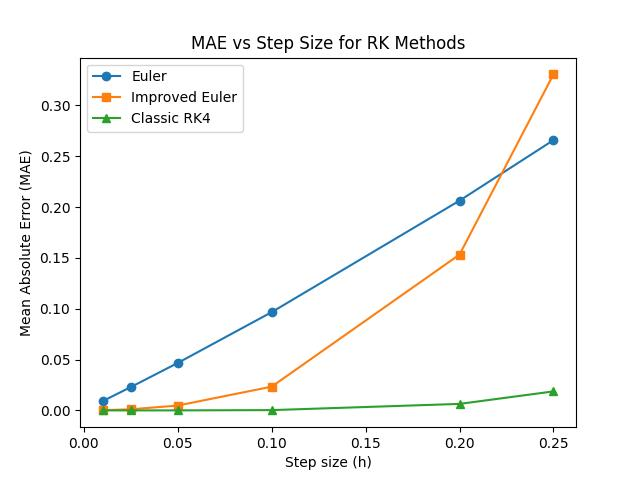
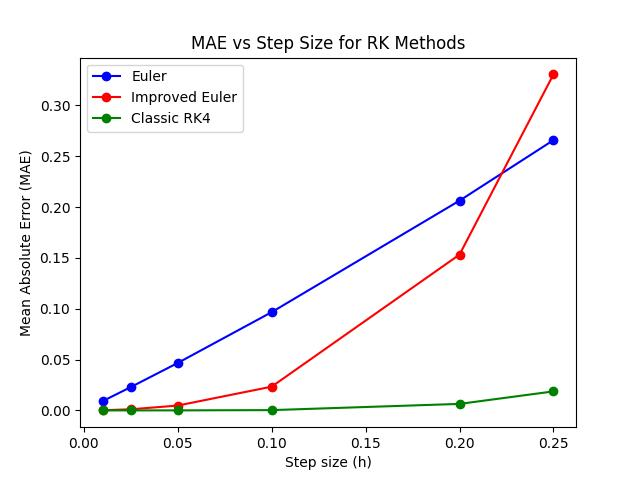
task 3.3 3.4 and 3.5 inital

diff --git a/call_ass5.py b/call_ass5.py
@@ -131,9 +131,9 @@ for i, h in enumerate(step_sizes):
 plt.figure()
 
 # Plotting each method
-plt.plot(step_sizes, mae_results["Euler"], 'o-', label="Euler")
-plt.plot(step_sizes, mae_results["Improved"], 's-', label="Improved Euler")
-plt.plot(step_sizes, mae_results["RK4"], '^-', label="Classic RK4")
+plt.plot(step_sizes, mae_results["Euler"], 'b' 'o-', label="Euler")
+plt.plot(step_sizes, mae_results["Improved"], 'r' 'o-', label="Improved Euler")
+plt.plot(step_sizes, mae_results["RK4"], 'g' 'o-', label="Classic RK4")
 
 # Axis labels and title
 plt.xlabel("Step size (h)")
@@ -146,4 +146,44 @@ plt.legend()
 plt.savefig("numericalErrorRKmethods.jpg")
 plt.close()
 
+# --------------------------------------------------------------------------------------------------------------
+# Task 3.5: Investigating Numerical Stability in RK Methods
+
+# Step size to test for stability
+h_stability = 0.5
+tspan = [0, 2]
+y0 = 4
+
+# Solve ODE with each RK method using h = 0.5
+solutions = {}
+
+for method_name, (alpha, beta, gamma) in rk_tableaux.items():
+    t_vals, y_vals = explicit_rk_solver(derivative_ode1, tspan, y0, h_stability, alpha, beta, gamma)
+    solutions[method_name] = (np.array(t_vals), np.array(y_vals))
+
+# Compute exact solution at same time points as one of the solvers
+t_exact = solutions["Euler"][0]
+y_exact = exact_solution_ode1(t_exact)
+
+# Plot all solutions
+plt.figure()
+
+# Exact solution
+plt.plot(t_exact, y_exact, 'k-', label='Exact Solution')
+
+# Numerical methods
+plt.plot(*solutions["Euler"], 'ro-', label="Euler")
+plt.plot(*solutions["Improved"], 'go-', label="Improved Euler")
+plt.plot(*solutions["RK4"], 'bo-', label="Classic RK4")
+
+# Add labels and legend
+plt.title("Stability Comparison with h = 0.5")
+plt.xlabel("Time (t)")
+plt.ylabel("y(t)")
+plt.legend()
+# plt.grid(True)
+
+# Save plot
+plt.savefig("stabilityRKmethods.jpg")
+plt.close()
 
